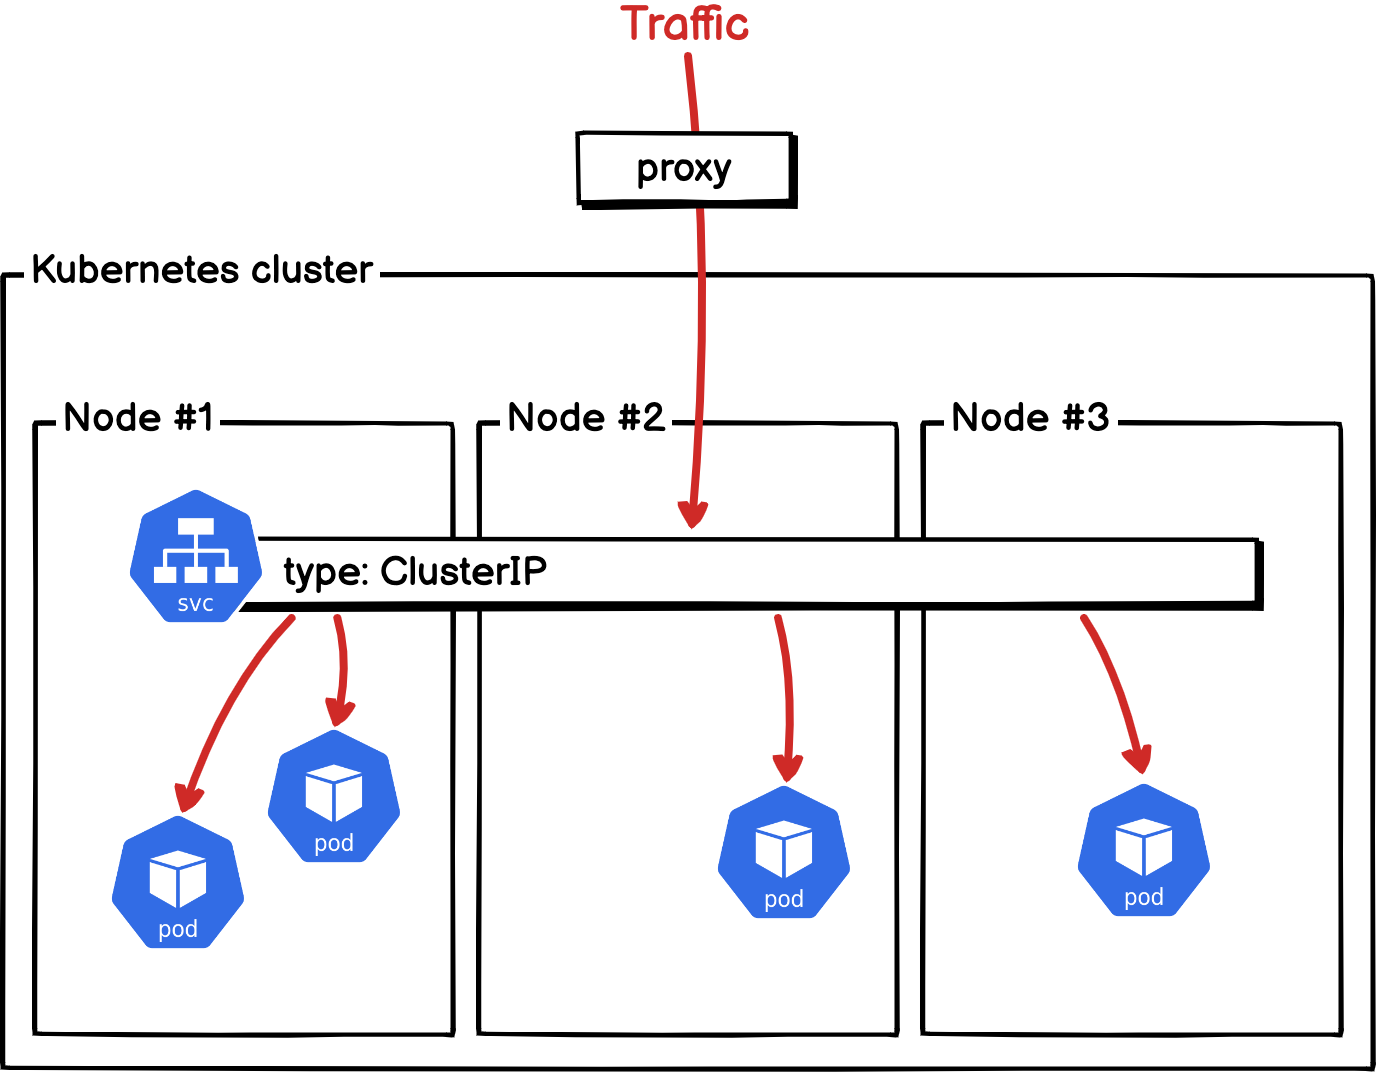
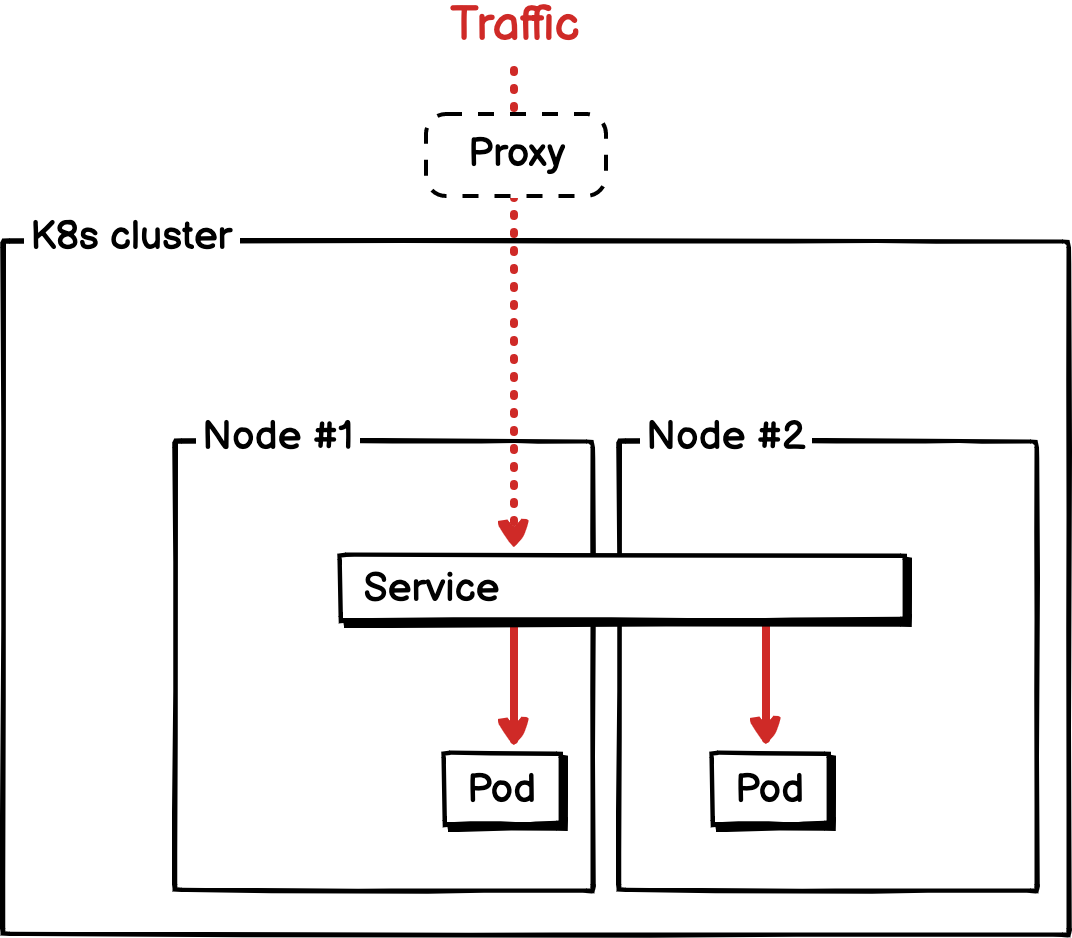
.

Changed region(s): [[0.0, 0.0, 1.0, 1.0], [0.0, 0.2164, 0.2771, 0.2783], [0.7388, 0.2473, 0.7696, 0.2783]]

diff --git a/doc/[Book] 10_Kubernetes_Service.md b/doc/[Book] 10_Kubernetes_Service.md
@@ -81,7 +81,8 @@ spec:
 | Service type | | Description |
 | :--- | :---: | :--- |
 | ClusterIP<br>(Default type) | ![h:230](img/k8s_service_clusterip.png) | 서비스를 클러스터-내부 IP에 노출시킴.<br> (클러스터 내에서만 서비스에 도달할 수 있음.)|
-
+> ClusterIP는 클러스터 **내부에서만 접근 가능**한 IP가 주어지기 때문에 외부에서 접근하기 위해서는 추가적인 방법을 적용해야 합니다.
+> `kubectl proxy`명령을 이용하여 proxy server를 구성하거나, 뒤에 배울 ingress 리소스를 이용하여 외부에서 접속할 수 있습니다.
 ---
 
 ## Service 의 특징

diff --git a/doc/[Book] 09_Kubernetes_Workload(2).md b/doc/[Book] 09_Kubernetes_Workload(2).md
@@ -91,7 +91,8 @@ spec:
 **Deployment**는 **Pod**를 생성하기 위한 상위 개념의 **Workload resource**이며, 아래 그림과 같이 **ReplicaSet**과 **Pod**에 대한 선언적 업데이트를 제공합니다.
 일반적으로 **Pod**는 개별 생성하지 않고 이 **Deployment**와 (**Deployment**에 의해 관리되는) **ReplicaSet**을 이용하여 생성하고 관리합니다.
 
-![h:400](img/k8s_deployment.png)
+![h:380](img/k8s_deployment.png)
+> 위 그림은 Pod의 image를 v1 > v2 > v3로 변경한 경우를 나타내고 있습니다.
 
 ---
 
